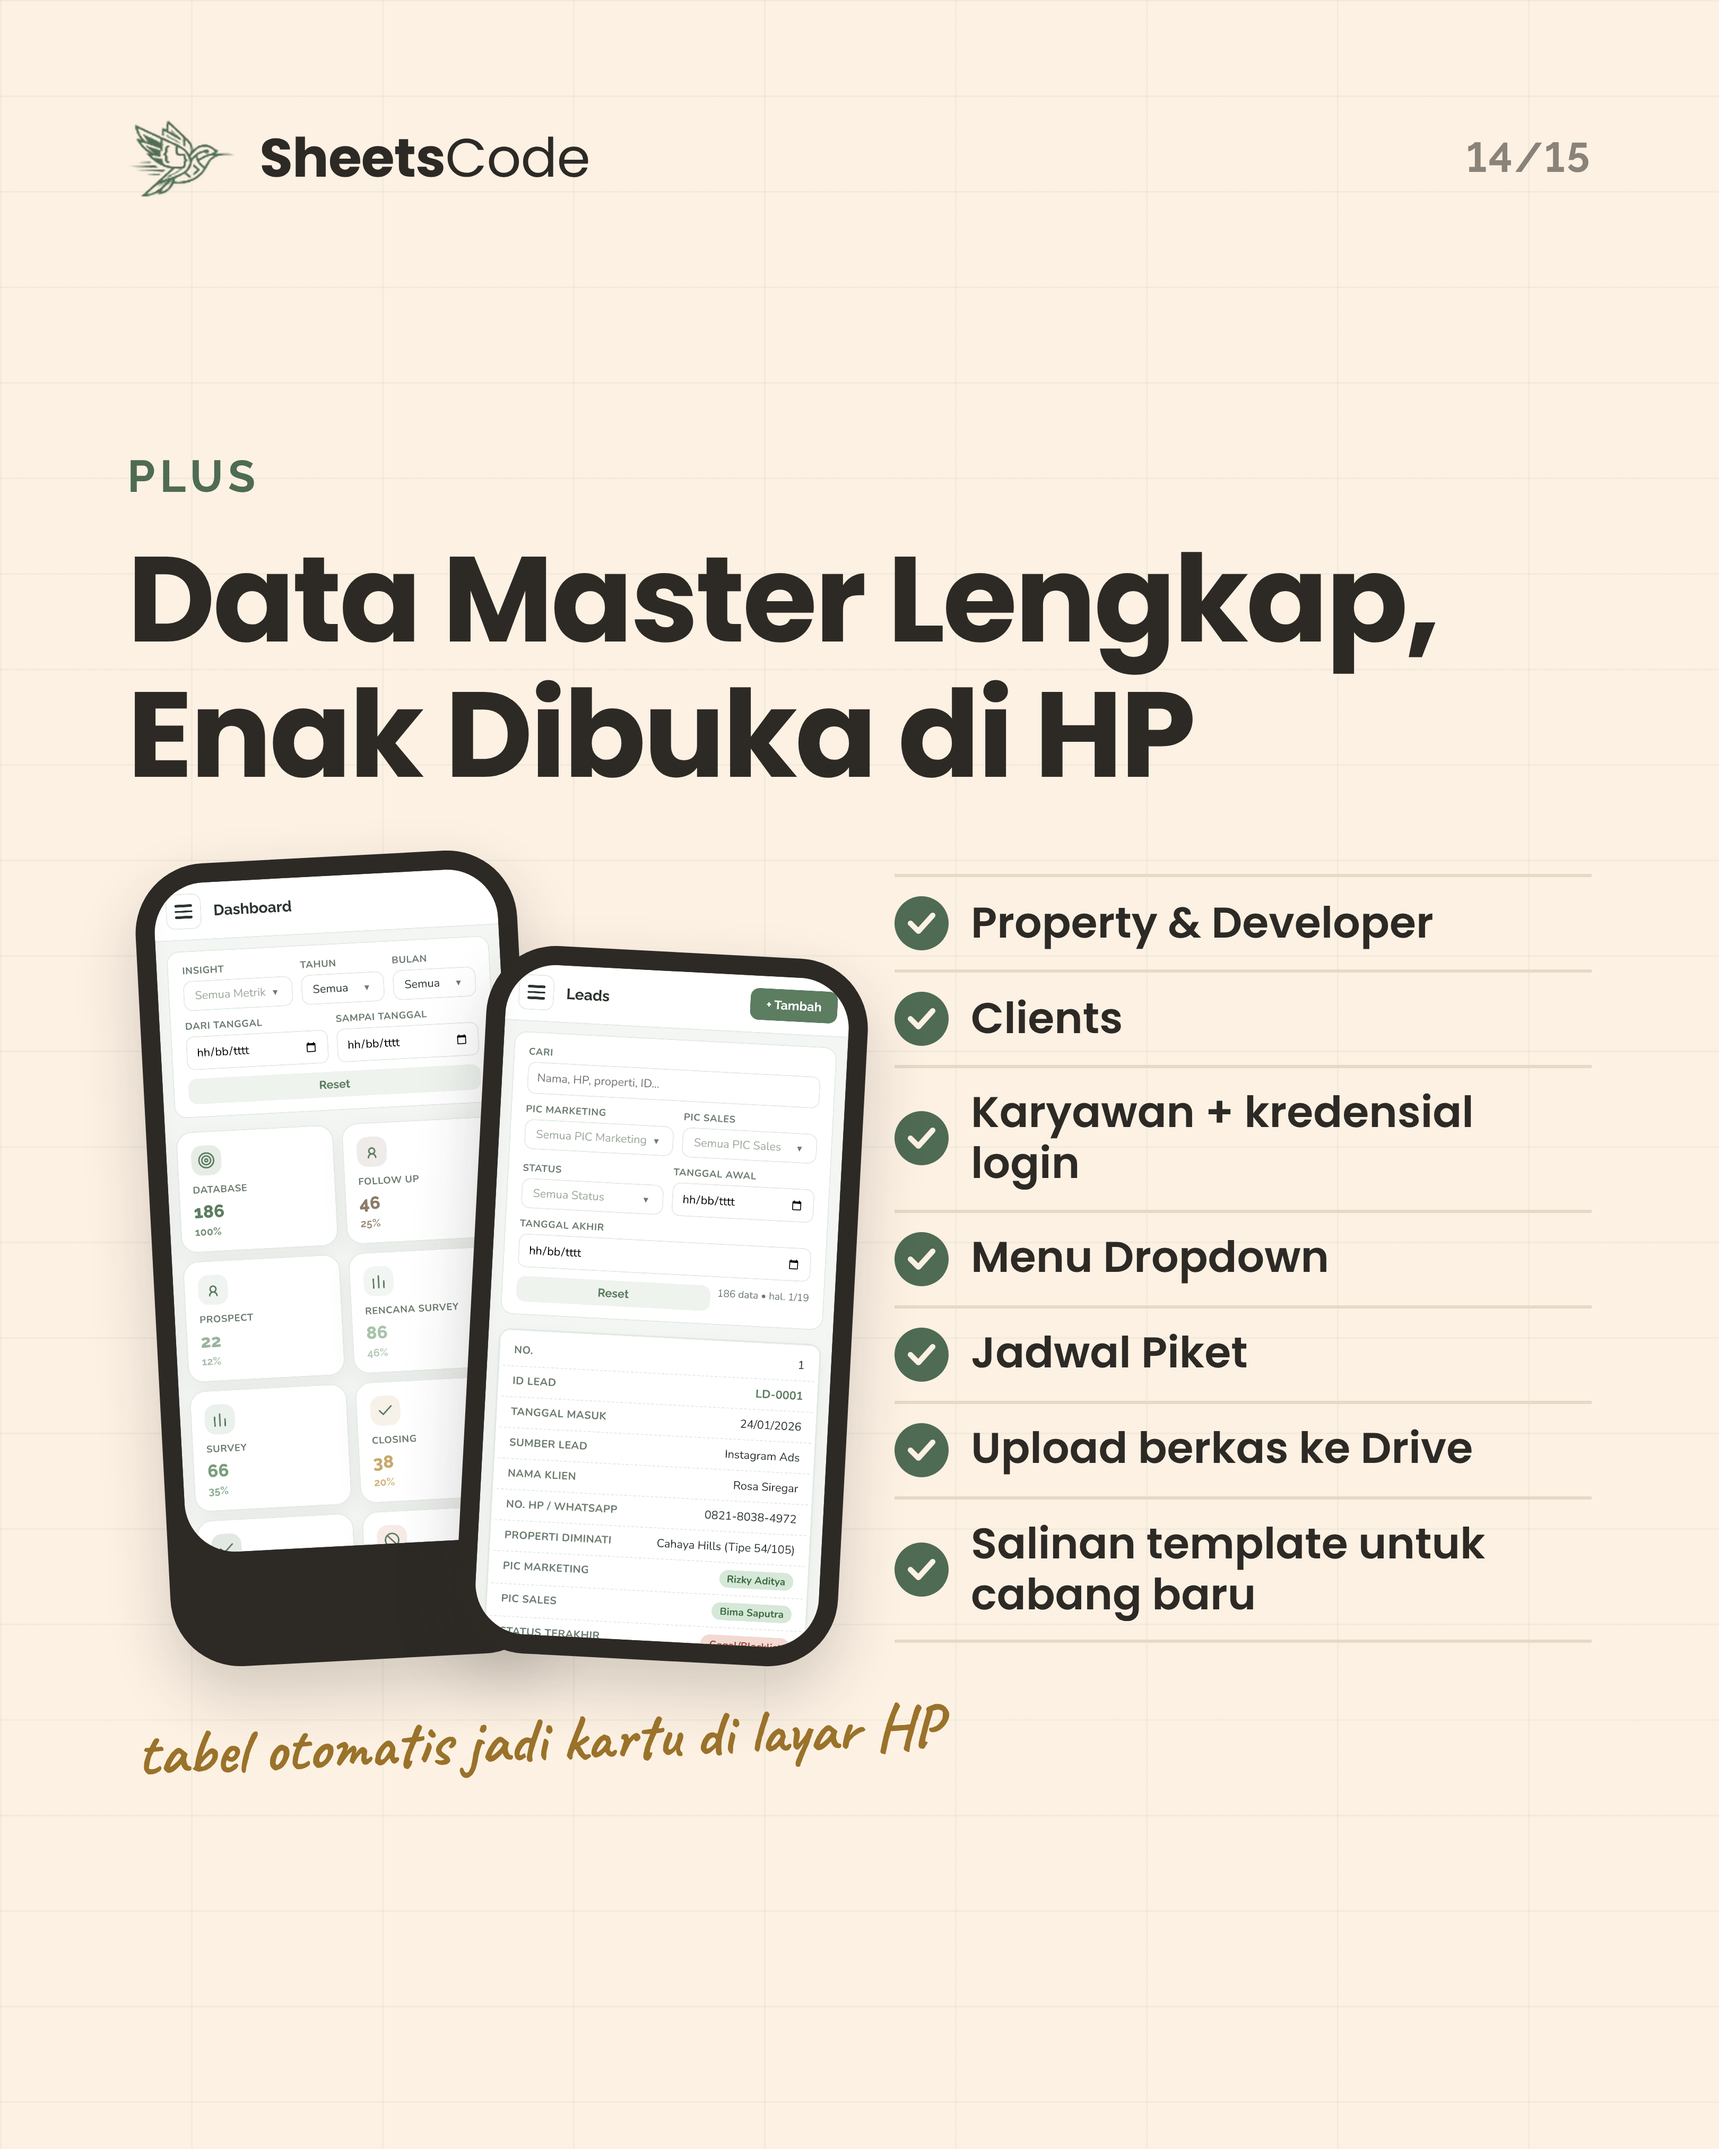
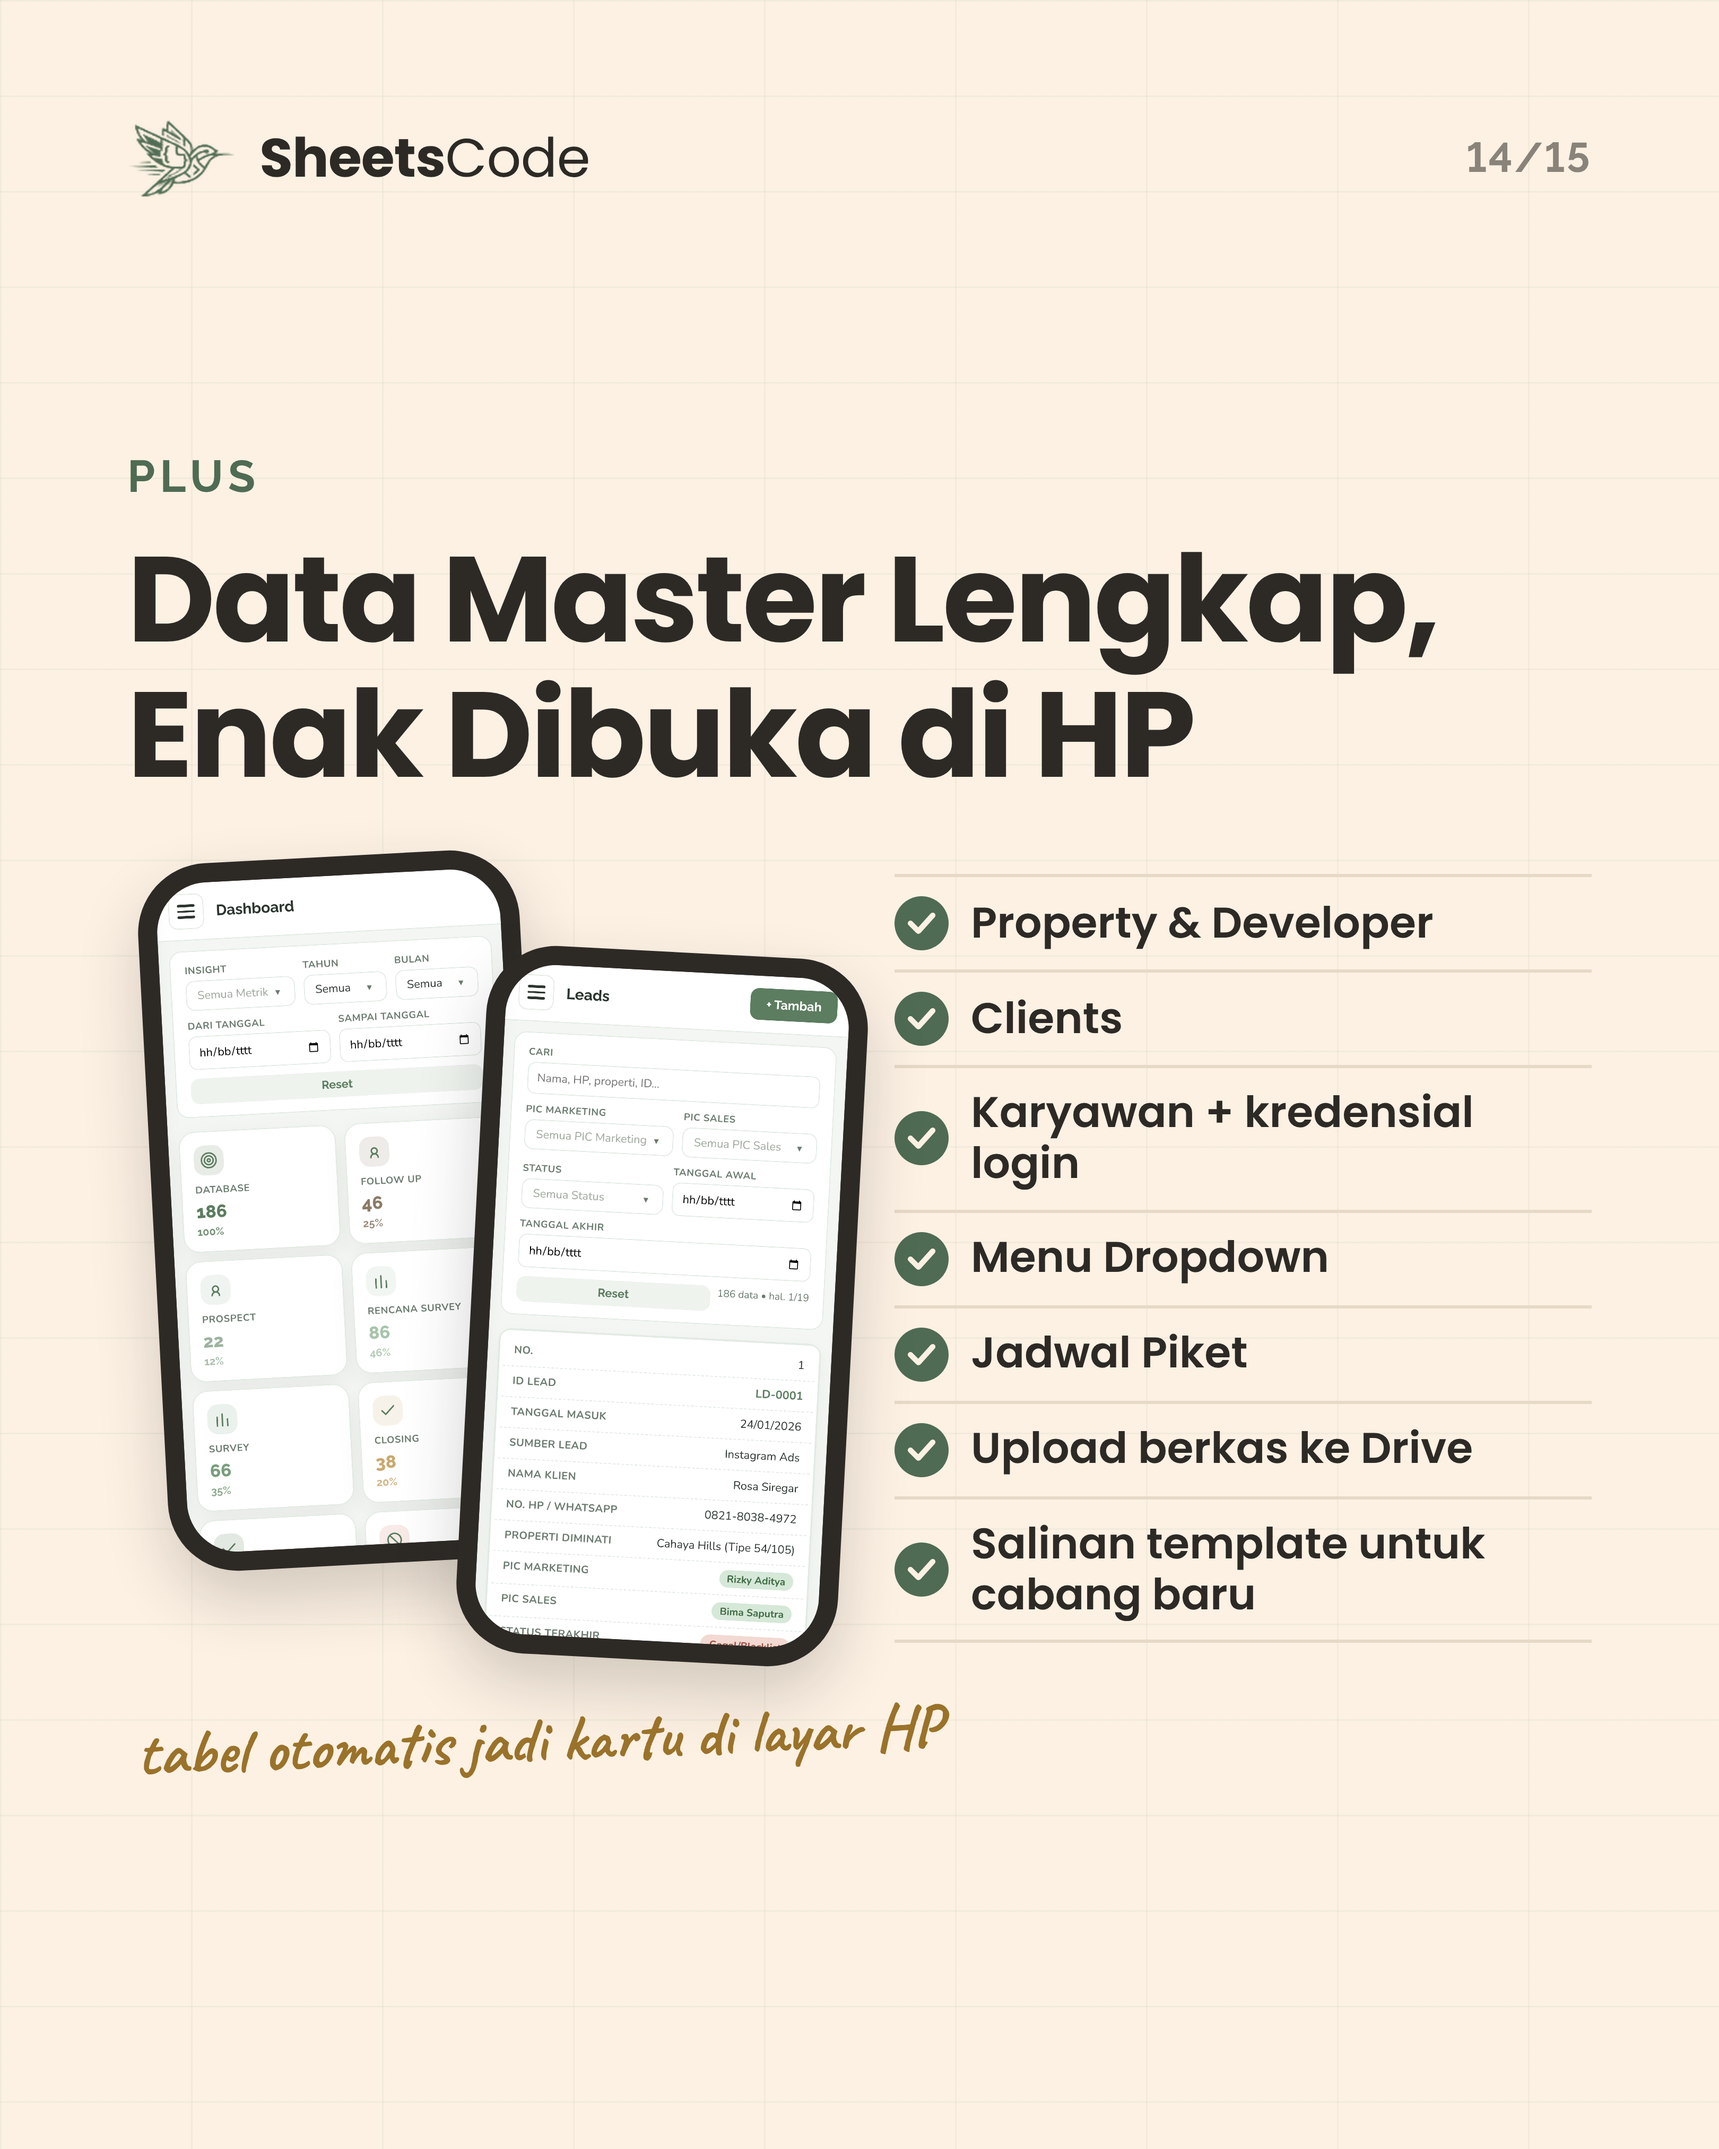
Property Tracker carousel: fix stretched phone bezel on slide 14
Claude-Session: https://claude.ai/code/session_01CJuXh4ULmuPotq75tuRzcX

diff --git a/konten/07-property-tracker/build.py b/konten/07-property-tracker/build.py
@@ -226,7 +226,7 @@ page(14, 'cream', f'''
 {eyebrow('Plus')}
 {h1('Data Master Lengkap, Enak Dibuka di HP')}
 <div style="display:flex;gap:26px;align-items:center;margin-top:34px">
- <div style="display:flex;gap:0;flex-shrink:0;padding-left:16px">{phone_frame(crop('m_dashboard', (0, 0, 390, 760), 'm_dash_crop'), 240, -3)}<div style="margin-left:-40px;margin-top:60px">{phone_frame(crop('m_leads', (0, 0, 390, 760), 'm_leads_crop'), 240, 3)}</div></div>
+ <div style="display:flex;gap:0;flex-shrink:0;padding-left:16px;align-items:flex-start">{phone_frame(crop('m_dashboard', (0, 0, 390, 760), 'm_dash_crop'), 240, -3)}<div style="margin-left:-40px;margin-top:60px">{phone_frame(crop('m_leads', (0, 0, 390, 760), 'm_leads_crop'), 240, 3)}</div></div>
  <div style="flex:1;border-bottom:2px solid {GRID}">{check}</div></div>
 {note('tabel otomatis jadi kartu di layar HP', 30)}''')
 
